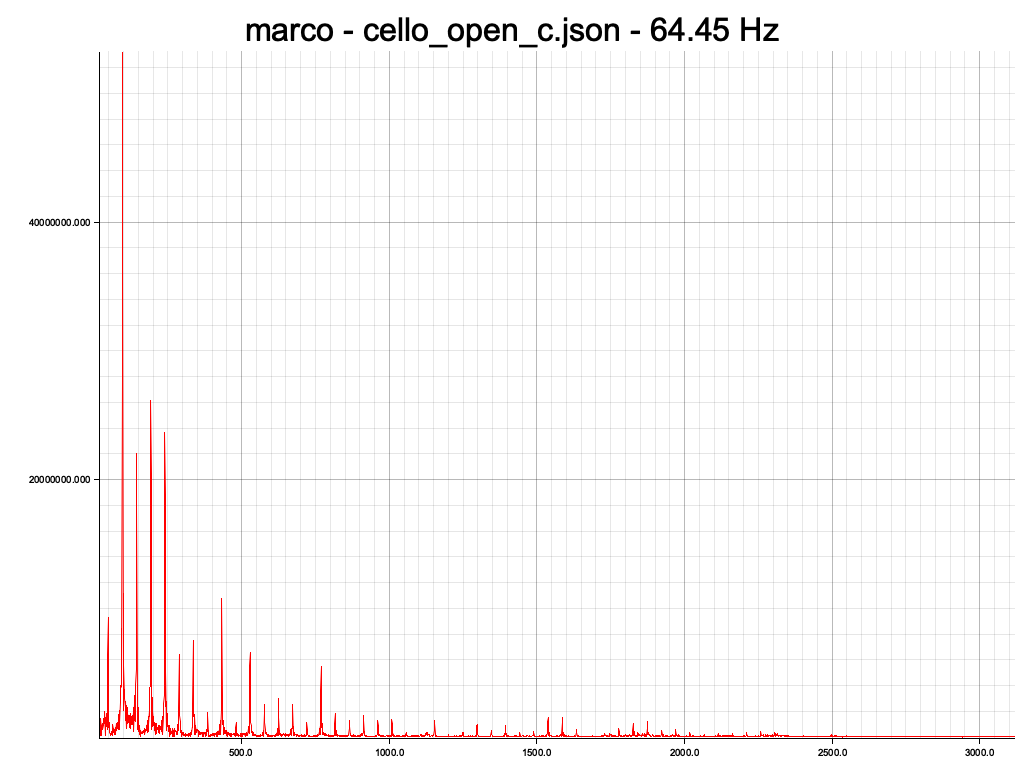
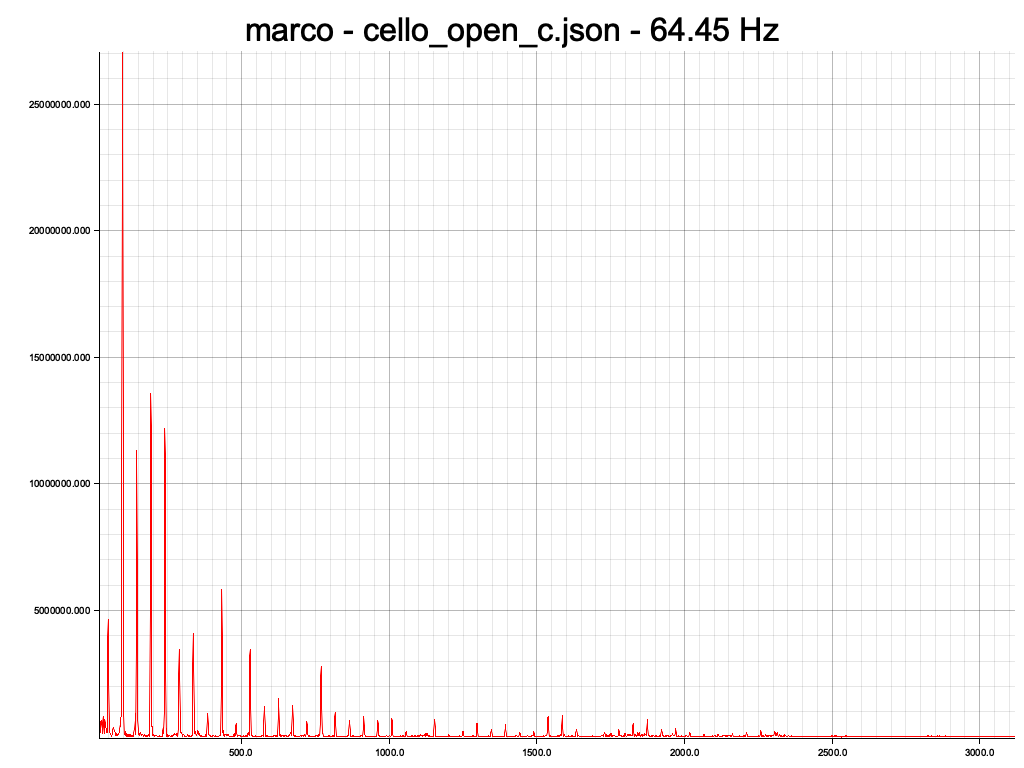
renamed marco detector to raw fft

Changed region(s): [[0.0312, 0.2812, 0.2812, 0.9688], [0.0312, 0.125, 0.0938, 0.1562], [0.3125, 0.9375, 0.3438, 0.9688]]

diff --git a/tuner-rs/src/detectors/raw_fft.rs b/tuner-rs/src/detectors/raw_fft.rs
@@ -1,0 +1,80 @@
+use crate::{
+    api::Partial,
+    constants::*,
+    detectors::{fft_space::FftSpace, FundamentalDetector},
+};
+use anyhow::Result;
+use rustfft::FftPlanner;
+
+pub struct RawFftDetector {
+    fft_space: FftSpace,
+}
+
+impl FundamentalDetector for RawFftDetector {
+    fn detect_fundamental(&mut self, signal: &[f64]) -> Result<Partial> {
+        let mut planner = FftPlanner::new();
+        let fft = planner.plan_fft_forward(self.fft_space.len());
+        self.fft_space.init_fft_space(
+            signal
+                .iter()
+                .zip(apodize::hanning_iter(signal.len()))
+                .map(|(&x, y)| x * y),
+        );
+
+        let (fft_space, scratch) = self.fft_space.workspace();
+        fft.process_with_scratch(fft_space, scratch);
+        self.spectrum()
+            .iter()
+            .reduce(|accum, item| if item.1 > accum.1 { item } else { accum })
+            .map(|item| Partial {
+                freq: item.0 as f64 * SAMPLE_RATE / self.fft_space.len() as f64,
+                intensity: item.1,
+            })
+            .ok_or(anyhow::anyhow!("Failed to detect fundamental with raw fft"))
+    }
+
+    fn spectrum(&self) -> Vec<(usize, f64)> {
+        let lower_limit = (MIN_FREQ * self.fft_space.len() as f64 / SAMPLE_RATE).round() as usize;
+        let upper_limit = (MAX_FREQ * self.fft_space.len() as f64 / SAMPLE_RATE).round() as usize;
+        self.fft_space
+            .freq_domain(true)
+            .enumerate()
+            .skip(lower_limit)
+            .take(upper_limit - lower_limit)
+            .map(|(i, (amplitude, _))| (i, amplitude))
+            .collect()
+    }
+
+    #[cfg(test)]
+    fn name(&self) -> &'static str {
+        RAW_FFT_ALGORITHM
+    }
+}
+
+impl RawFftDetector {
+    pub fn new(fft_space_size: usize) -> Self {
+        RawFftDetector {
+            fft_space: FftSpace::new(fft_space_size),
+        }
+    }
+}
+
+#[cfg(test)]
+mod tests {
+    use super::*;
+    use crate::utils::test_utils::*;
+
+    #[test]
+    fn test_raw_fft() -> anyhow::Result<()> {
+        let mut detector = RawFftDetector::new(TEST_FFT_SPACE_SIZE);
+
+        test_fundamental_freq(&mut detector, "tuner_c5.json", 523.681)?;
+        test_fundamental_freq(&mut detector, "cello_open_a.json", 218.872)?;
+        test_fundamental_freq(&mut detector, "cello_open_d.json", 146.362)?;
+        test_fundamental_freq(&mut detector, "cello_open_g.json", 96.679)?;
+
+        // Fails to detect open C, which should be around 64 Hz
+        test_fundamental_freq(&mut detector, "cello_open_c.json", 128.906)?;
+        Ok(())
+    }
+}

diff --git a/tuner-rs/src/tuner.rs b/tuner-rs/src/tuner.rs
@@ -1,13 +1,13 @@
 use crate::{
     api::Partial,
     constants::{
-        AUTOCORRELATION_ALGORITHM, COMPLEX_CEPSTRUM_ALGORITHM, MARCO_ALGORITHM,
-        POWER_CEPSTRUM_ALGORITHM,
+        AUTOCORRELATION_ALGORITHM, COMPLEX_CEPSTRUM_ALGORITHM, POWER_CEPSTRUM_ALGORITHM,
+        RAW_FFT_ALGORITHM,
     },
     detectors::{
         autocorrelation,
         cepstrum::{complex, power},
-        marco_detector, Detector, FundamentalDetector,
+        raw_fft, Detector, FundamentalDetector,
     },
     utils::{audio_buffer_to_signal, calc_optimized_fft_space_size},
     TunerError,
@@ -61,9 +61,9 @@ impl Tuner {
                 POWER_CEPSTRUM_ALGORITHM => {
                     Detector::PowerCepstrum(power::PowerCepstrum::new(optimized_fft_space_size))
                 }
-                MARCO_ALGORITHM => Detector::MarcoDetector(marco_detector::MarcoDetector::new(
-                    optimized_fft_space_size,
-                )),
+                RAW_FFT_ALGORITHM => {
+                    Detector::RawFftDetector(raw_fft::RawFftDetector::new(optimized_fft_space_size))
+                }
                 AUTOCORRELATION_ALGORITHM => Detector::AutocorrelationDetector(
                     autocorrelation::AutocorrelationDetector::new(optimized_fft_space_size),
                 ),
@@ -79,8 +79,8 @@ impl Tuner {
 
     pub fn set_algorithm(&mut self, algorithm: &str) -> Result<()> {
         match algorithm {
-            MARCO_ALGORITHM => {
-                self.detector = Detector::MarcoDetector(marco_detector::MarcoDetector::new(
+            RAW_FFT_ALGORITHM => {
+                self.detector = Detector::RawFftDetector(raw_fft::RawFftDetector::new(
                     self.optimized_fft_space_size,
                 ));
                 Ok(())

diff --git a/tuner-rs/src/detectors/fft_space.rs b/tuner-rs/src/detectors/fft_space.rs
@@ -62,16 +62,14 @@ impl FftSpace {
         (&mut self.space, &mut self.scratch)
     }
 
-    pub fn init_fft_space(&mut self, signal: &[f64]) {
-        assert!(signal.len() <= self.space.len());
-        signal
-            .iter()
-            .zip(self.space.iter_mut())
-            .for_each(|(sample, fft)| {
-                fft.re = *sample;
-                fft.im = 0.0;
-            });
-        self.space[signal.len()..]
+    pub fn init_fft_space<I: Iterator<Item = f64>>(&mut self, signal: I) {
+        let signal_len = signal.size_hint().1.unwrap();
+        assert!(signal_len <= self.space.len());
+        signal.zip(self.space.iter_mut()).for_each(|(sample, fft)| {
+            fft.re = sample;
+            fft.im = 0.0;
+        });
+        self.space[signal_len..]
             .iter_mut()
             .for_each(|o| *o = Complex::zero())
     }

diff --git a/tuner-rs/src/detectors.rs b/tuner-rs/src/detectors.rs
@@ -1,7 +1,7 @@
 pub mod autocorrelation;
 pub mod cepstrum;
 mod fft_space;
-pub mod marco_detector;
+pub mod raw_fft;
 // pub mod mcleod;
 
 use crate::api::Partial;
@@ -10,7 +10,7 @@ use anyhow::Result;
 use self::{
     autocorrelation::AutocorrelationDetector,
     cepstrum::{complex::ComplexCepstrum, power::PowerCepstrum},
-    marco_detector::MarcoDetector,
+    raw_fft::RawFftDetector,
 };
 use enum_dispatch::enum_dispatch;
 
@@ -26,7 +26,7 @@ pub trait FundamentalDetector {
 
 #[enum_dispatch(FundamentalDetector)]
 pub enum Detector {
-    MarcoDetector,
+    RawFftDetector,
     ComplexCepstrum,
     PowerCepstrum,
     AutocorrelationDetector,

diff --git a/tuner-rs/src/detectors/autocorrelation.rs b/tuner-rs/src/detectors/autocorrelation.rs
@@ -66,7 +66,7 @@ impl FundamentalDetector for AutocorrelationDetector {
     fn detect_fundamental(&mut self, signal: &[f64]) -> Result<Partial> {
         let mut planner = FftPlanner::new();
         let forward_fft = planner.plan_fft_forward(self.fft_space.len());
-        self.fft_space.init_fft_space(signal);
+        self.fft_space.init_fft_space(signal.iter().cloned());
 
         let (fft_space, scratch) = self.fft_space.workspace();
         forward_fft.process_with_scratch(fft_space, scratch);

diff --git a/tuner-rs/src/detectors/cepstrum/complex.rs b/tuner-rs/src/detectors/cepstrum/complex.rs
@@ -14,7 +14,7 @@ impl FundamentalDetector for ComplexCepstrum {
     fn detect_fundamental(&mut self, signal: &[f64]) -> Result<Partial> {
         let mut planner = FftPlanner::new();
         let forward_fft = planner.plan_fft_forward(self.fft_space.len());
-        self.fft_space.init_fft_space(signal);
+        self.fft_space.init_fft_space(signal.iter().cloned());
 
         let (fft_space, scratch) = self.fft_space.workspace();
         forward_fft.process_with_scratch(fft_space, scratch);

diff --git a/tuner-rs/src/detectors/cepstrum/power.rs b/tuner-rs/src/detectors/cepstrum/power.rs
@@ -75,7 +75,7 @@ impl FundamentalDetector for PowerCepstrum {
     fn detect_fundamental(&mut self, signal: &[f64]) -> Result<Partial> {
         let mut planner = FftPlanner::new();
         let forward_fft = planner.plan_fft_forward(self.fft_space.len());
-        self.fft_space.init_fft_space(signal);
+        self.fft_space.init_fft_space(signal.iter().cloned());
 
         let (fft_space, scratch) = self.fft_space.workspace();
         forward_fft.process_with_scratch(fft_space, scratch);

diff --git a/tuner-rs/src/constants.rs b/tuner-rs/src/constants.rs
@@ -1,9 +1,8 @@
 pub const SAMPLE_RATE: f64 = 44000.0;
-pub const PARTIAL_INTENSITY_SCALING: f64 = 1.0 / 1000.0;
 pub const MAX_FREQ: f64 = 4186.0;
 pub const MIN_FREQ: f64 = 27.5;
 
-pub const MARCO_ALGORITHM: &str = "marco";
+pub const RAW_FFT_ALGORITHM: &str = "rawfft";
 pub const COMPLEX_CEPSTRUM_ALGORITHM: &str = "complex";
 pub const POWER_CEPSTRUM_ALGORITHM: &str = "power";
 pub const AUTOCORRELATION_ALGORITHM: &str = "autocorrelation";
